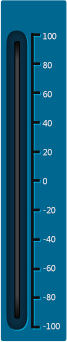
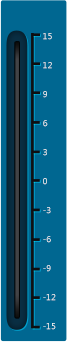
修复合并代码产生的BUG

diff --git a/js/index/zkhy/ydyhy/ydyhy_add_form_view.js b/js/index/zkhy/ydyhy/ydyhy_add_form_view.js
@@ -68,7 +68,7 @@ define(function(require) {
 			);
 			
 			if(!this.model.isNew()) {
-				this.$("#name").prop("disabled", true).css({"opacity":0.5});
+				this.$("#name").prop("disabled", true).addClass("disabled");
 				this.$("#tempRecordId").selectmenu("option", "disabled", true);
 			}
 		},
@@ -198,11 +198,11 @@ define(function(require) {
 			}
 			if(hylx === 0)
 			{
-				this.ui.yyrq_con.prop("disabled", true).css({"opacity":0.5});
+				this.ui.yyrq.prop("disabled", true).addClass("disabled");
 			}
 			else
 			{
-				this.ui.yyrq_con.removeAttr("disabled").css({"opacity":1});
+				this.ui.yyrq.prop("disabled", false).removeClass("disabled");
 			}
 			return this;
 		}

diff --git a/js/index/hykz/hykz_router.js b/js/index/hykz/hykz_router.js
@@ -14,8 +14,8 @@ define(function(require) {
 			"hykz": "hcddt",
 			"hykz/hcddt": "hcddt",
 			"hykz/tjhc": "tjhc",
-			"hykz/spjz(/:id)": "spjz",
-			"hykz/dhm(/:id)": "dhm",
+			"hykz/spjz": "spjz",
+			"hykz/dhm": "dhm",
 			"hykz/ypclq": "ypclq"
 		},
 		
@@ -29,17 +29,15 @@ define(function(require) {
 			
 		},
 		
-		spjz: function(id) {
+		spjz: function() {
 			new SpjzRoute({
-				container: this.container,
-				id: id
+				container: this.container
 			});
 		},
 		
-		dhm: function(id) {
+		dhm: function() {
 			new DhmRoute({
-				container: this.container,
-				id: id
+				container: this.container
 			});
 		},
 		

diff --git a/js/index/wjll/searchTerms_view.js b/js/index/wjll/searchTerms_view.js
@@ -30,10 +30,10 @@ define(function(require) {
 			"click .searchBtn": "searchFile",
 			"click .resetBtn": "resetFile"
 		},
-		initialize: function() {
-			this.setSelectBindings(this.bindings);
-		},
 		
+		initialize: function() {
+			Util.setSelectBindings(this.bindings);
+		},
 		onRender: function() {
 			this.stickit();
 		},
@@ -55,7 +55,7 @@ define(function(require) {
 		},
 		resetFile: function() {
 			this.model.clear().set(new SearchTermsModel().toJSON());
-			this.refreshSelectmenu();
+			Util.refreshSelectmenu(this.$el);
 			Radio.channel("wjll").command("searchFile", this.model.toJSON());
 		}
 	});

diff --git a/js/index/zkhy/hymb/hymb_add_dhm_view.js b/js/index/zkhy/hymb/hymb_add_dhm_view.js
@@ -78,7 +78,7 @@ define(function(require) {
 			_.each(mpMode, function(curMode) {
 				var subPicInfo = curMode.subPicInfo;
 				Util.addAddrName(subPicInfo, allLxr);
-			}
+			});
 		},
 		
 		/**
@@ -292,7 +292,7 @@ define(function(require) {
 			_.each(this.mpMode, function(curMode) {
 				var subPicInfo = curMode.subPicInfo;
 				_.each(subPicInfo, function(info) {
-					if(self._isLxrInArr(info, lxrArr)) {
+					if(Util.isLxrInArr(info, lxrArr)) {
 						info.equType = Const.EquType_Cnt;
 						info.recordId = 0;
 						info.vgaPort = 0;

diff --git a/js/index/hykz/hcddt/hcddt_view.js b/js/index/hykz/hcddt/hcddt_view.js
@@ -14,16 +14,17 @@ define(function(require) {
 		events: {
 			"click .circleMenu img": "circleMenu"
 		},
+		
+		onAttach: function() {
+			this.$(".circleMenu").mobilyblocks();
+			Radio.channel("index").command("activeLink");
+		},
+		
 		circleMenu: function(e) {
 			e.preventDefault();
 			
 			var src = $(e.target).attr("src");
 			console.log(src);
-		},
-		
-		onAttach: function() {
-			this.$(".circleMenu").mobilyblocks();
-			Radio.channel("index").command("activeLink");
 		}
 	});
 	

diff --git a/js/index/pz/wlsz/wk/wk_view.js b/js/index/pz/wlsz/wk/wk_view.js
@@ -78,7 +78,7 @@ define(function(require) {
 			this.$("[netType*="+curNet+"]").show();			
 			if(curNet == 1)
 			{
-				this.$("[netType*=4]").prop("disabled", true).css({"opacity":0.5});
+				this.$("[netType*=4]").prop("disabled", true).addClass("disabled");
 			}
 			else
 			{
@@ -90,7 +90,7 @@ define(function(require) {
 		
 		changeMainDevice: function() {
 			this.showKdbh();
-			this.refreshSelectmenu();
+			Util.refreshSelectmenu(this.$el);
 		}
 	});
 	

diff --git a/js/index/hykz/spjz/spjz_route.js b/js/index/hykz/spjz/spjz_route.js
@@ -24,9 +24,7 @@ define(function(require) {
 				$.getJSON("getVenueCfg.psp"),//会场
 				//$.getJSON("getVidMatrix.psp"),//视频矩阵
 				
-				this.spjzModel.mustFetch({
-					"recordId": options.id
-				})
+				this.spjzModel.fetch()
 			).done(function(allLxr,outPort,venue) {
 				var venueId = [];
 				if(venue && venue[0].data && venue[0].data.venueId)

diff --git a/js/index/hykz/dhm/dhm_route.js b/js/index/hykz/dhm/dhm_route.js
@@ -21,9 +21,7 @@ define(function(require) {
 				$.getJSON("getAllAddrBook.psp"),//所有联系人
 				
 				$.getJSON("getVenueCfg.psp"),//会场
-				this.dhmModel.mustFetch({
-					"recordId": options.id
-				})
+				this.dhmModel.fetch()
 			).done(function(allLxr,venue) {
 				var venueId = [];
 				if(venue && venue[0].data && venue[0].data.venueId)

diff --git a/js/slider/slider4/template.html b/js/slider/slider4/template.html
@@ -1,3 +1,3 @@
 <h4 class="slide-vertical-box-name"></h4>
-<div class="slider" data-min="-100" data-max="100" data-height="292" data-vertical="true"></div>
+<div class="slider" data-min="-15" data-max="15" data-height="292" data-vertical="true"></div>
 <span class="sliderValue" contenteditable="true"></span>

diff --git a/js/index/hykz/hcddt/hcddt_route.js b/js/index/hykz/hcddt/hcddt_route.js
@@ -13,9 +13,7 @@ define(function(require) {
 			this.container = options.container;
 			this.lxrCollection = new LxrCollection();
 			
-			this.lxrCollection.fetch({
-				reset: true
-			}).done(function() {
+			this.lxrCollection.fetch().done(function() {
 				self.showView();
 			});
 		},

diff --git a/css/wjll.css b/css/wjll.css
@@ -17,7 +17,7 @@
 	padding-right: 20px;
 	margin-left: 20px;
 	height: 38px;
-	background: #1E89B5 url(../img/form/search.png) no-repeat 10px center;
+	background: #1E89B5 url(../img/form/btn/search.png) no-repeat 10px center;
 	color: #fff;
 	font-size: 16px;
 	text-shadow: none;
